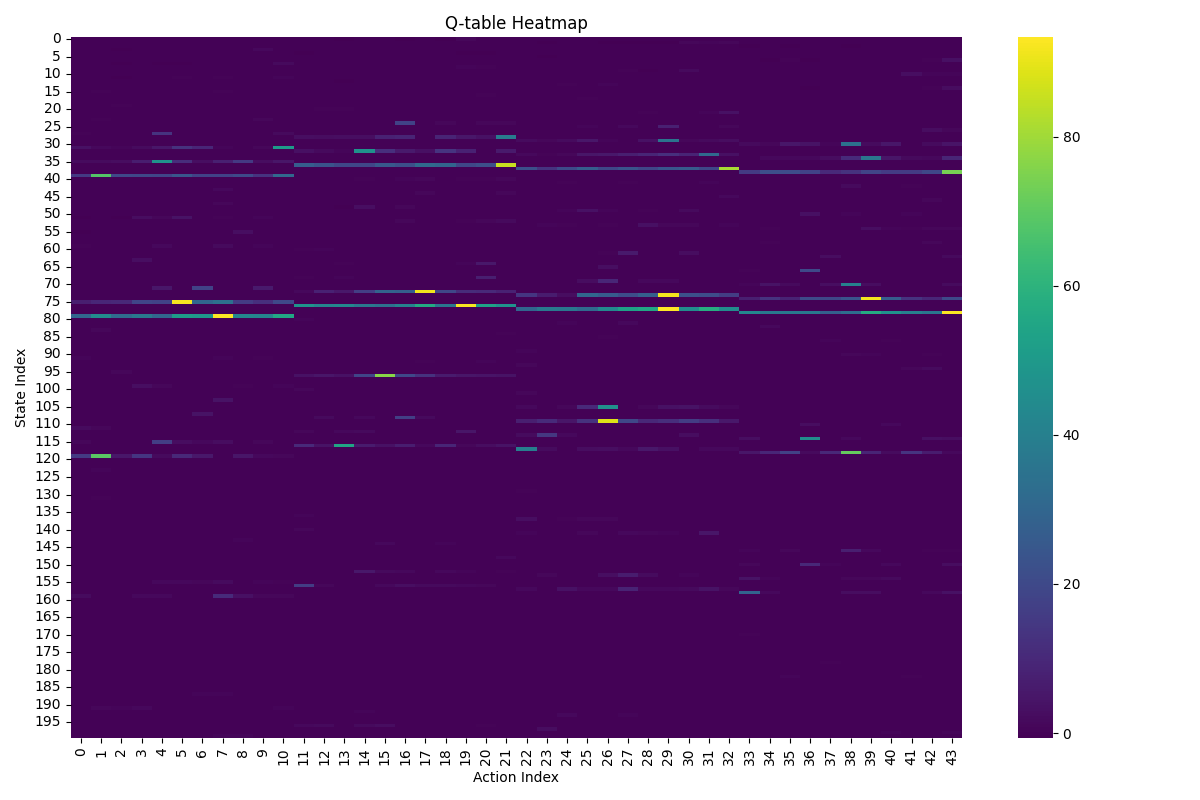
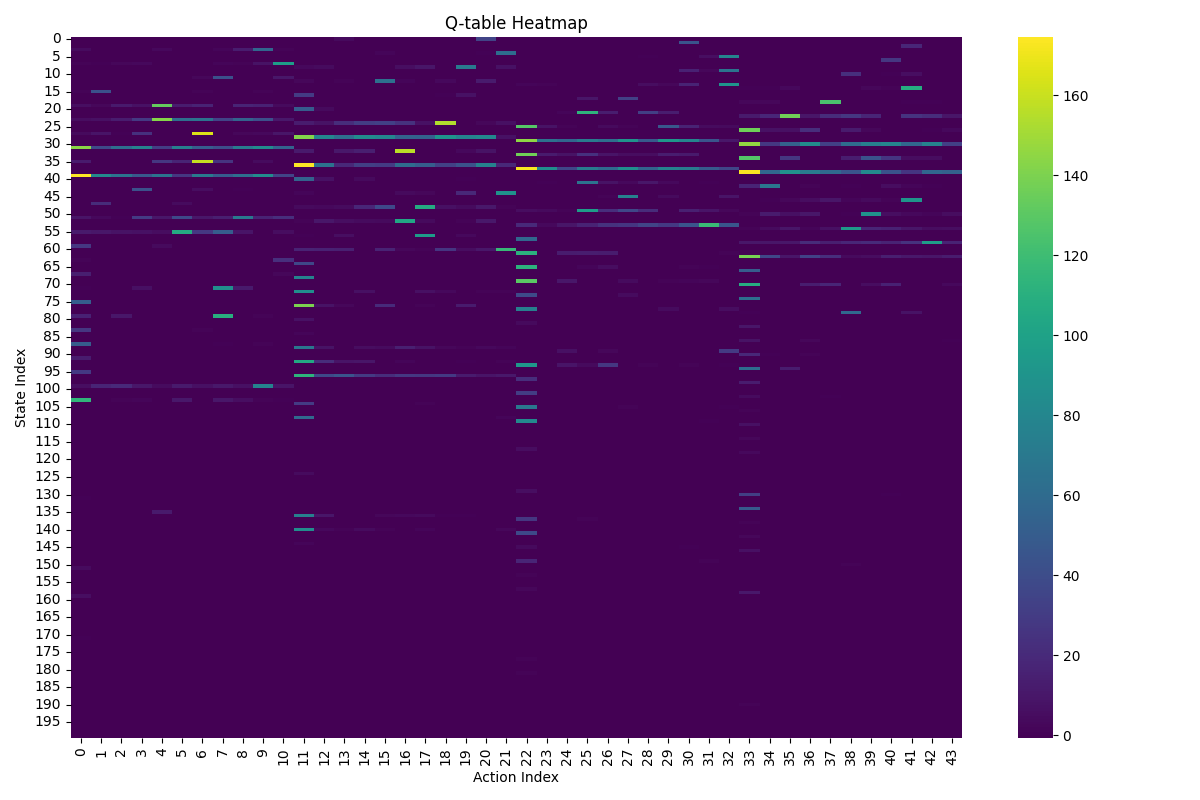
made a remake the main.py

diff --git a/adaptive_learning_system/main.py b/adaptive_learning_system/main.py
@@ -1,57 +1,110 @@
-if __name__ == "__main__":
-    from ql_setup import define_state_space, define_action_space
-    from ql_training import train_q_learning_agent
-    from ql_analysis import get_optimal_action_for_state, get_top_n_actions_for_state, plot_q_table_heatmap
-    from plot_utils import plot_line_chart
+# main.py (pseudocode)
+from data_handling import load_csv, preprocess_data, save_csv
+from random_forest import train_models, predict, save_models
+from kalman_filter import add_kalman_column
+from simpsons_rule import simpsons_rule, discretize_simpsons_result
+from ql_setup import define_state_space, define_action_space, initialize_q_table
+from ql_training import train_q_learning_agent
+from shewhart_control import initialize_control_chart, add_engagement_data, check_for_engagement_anomaly
+from ql_analysis import plot_q_table_heatmap, print_policy_summary, plot_learning_curve
+from plot_utils import plot_line_chart
 
-    # --- Training ---
-    q_table, rewards, max_q_values, policy_evolution = train_q_learning_agent(
-        num_episodes=200,
-        max_steps_per_episode=30,
-        learning_rate=0.1,
-        discount_factor=0.9,
-        epsilon=1.0,
-        epsilon_decay_rate=0.005,
-        min_epsilon=0.05,
-        reward_mode="state",
-        progress_interval=20
-    )
+# 1. Load and preprocess data
+feature_cols = [
+    'engagement_rate', 'time_on_task_s', 'hint_ratio', 'interaction_count',
+    'task_completed', 'quiz_score', 'difficulty', 'error_rate',
+    'task_timed_out', 'time_before_hint_used'
+]
+target_cols = ['cognitive_load', 'engagement_level']
 
-    # --- Analysis and Visualization ---
-    print("\n--- Learned Policy Examples ---")
-    states, state_to_index, index_to_state, num_states = define_state_space()
-    actions, action_to_index, index_to_action, num_actions = define_action_space()
+df = load_csv("data/sample_training_data.csv")
+df = preprocess_data(df, feature_cols, is_training_data=True)
 
-    example_states = [
-        (3, 5, 1, 'D'),  # Mid-cognitive load, High engagement, Task Completed, Previous task D -> Next should be A
-        (1, 1, 0, 'A'),  # Low cognitive load, Low engagement, Task Not Completed, Previous task A -> Next should be B
-        (5, 3, 0, 'B'),  # High cognitive load, Mid engagement, Task Not Completed, Previous task B -> Next should be C
-        (2, 4, 1, 'C'),  # Low-ish cognitive load, High engagement, Task Completed, Previous task C -> Next should be D
-        (3, 3, 0, 'A')   # The starting state used in training, Previous task A -> Next should be B
-    ]
+# 2. Train Random Forest models
+reg, clf, features, metrics = train_models(df, feature_cols, target_cols)
 
-    for state in example_states:
-        print(f"\n--- Policy for State: {state} ---")
-        optimal_action = get_optimal_action_for_state(state, q_table, state_to_index, index_to_action)
-        print(f"Optimal action: {optimal_action}")
-        top_actions = get_top_n_actions_for_state(state, q_table, state_to_index, index_to_action, n=5)
-        print("Top actions:")
-        if top_actions is not None:
-            for action, q_value in top_actions:
-                print(f"  {action}: {q_value:.4f}")
-        else:
-            print("  No actions available for this state.")
+# 3. Predict on new data, smooth with Kalman, integrate with Simpson
+reg_pred, clf_pred = predict((reg, clf), features, df)
+df['predicted_cognitive_load'] = reg_pred
+df['predicted_engagement_level'] = clf_pred
 
-    # Plot learning curve
-    plot_line_chart(
-        x=list(range(1, len(rewards) + 1)),
-        y=[rewards],
-        xlabel='Episode',
-        ylabel='Total Reward',
-        title='Total Reward per Episode',
-        legend_labels=['Total Reward'],
-        show=True
-    )
+# Visualization: Random Forest predictions (scatter plot)
+plot_line_chart(
+    x=df.index,
+    y=[df['predicted_cognitive_load'], df['predicted_engagement_level']],
+    xlabel="Index",
+    ylabel="Predicted Values",
+    title="Random Forest Predictions",
+    legend_labels=["Cognitive Load", "Engagement Level"],
+    save_path="image/rf_predictions.png",
+    show=False
+)
 
-    # Plot Q-table heatmap
-    plot_q_table_heatmap(q_table)
+df = add_kalman_column(df, col='predicted_cognitive_load', new_col='smoothed_cognitive_load')
+
+# Visualization: Kalman Filter smoothing
+plot_line_chart(
+    x=df.index,
+    y=[df['predicted_cognitive_load'], df['smoothed_cognitive_load']],
+    xlabel="Index",
+    ylabel="Cognitive Load",
+    title="Kalman Filter Smoothing",
+    legend_labels=["Predicted", "Smoothed"],
+    save_path="image/kalman_smoothing.png",
+    show=False
+)
+
+h = 3  # Step size (adjust as appropriate for your data)
+integral = simpsons_rule(df['smoothed_cognitive_load'], h)
+bucket = discretize_simpsons_result(integral)
+
+# Visualization: Simpson's Rule integration (bar for bucket)
+plot_line_chart(
+    x=[0],
+    y=[integral],
+    xlabel="Integration",
+    ylabel="Integral Value",
+    title="Simpson's Rule Integral",
+    legend_labels=["Integral"],
+    save_path="image/simpsons_integral.png",
+    show=False
+)
+
+# 4. RL: Setup and train Q-learning
+states, state_to_index, index_to_state, num_states = define_state_space()
+actions, action_to_index, index_to_action, num_actions = define_action_space()
+q_table = initialize_q_table(num_states, num_actions)
+
+num_episodes = 1000
+alpha = 0.1
+gamma = 0.99
+epsilon = 0.1
+
+q_table, rewards, _, _ = train_q_learning_agent(
+    num_episodes=num_episodes,
+    learning_rate=alpha,
+    discount_factor=gamma,
+    epsilon=epsilon
+)
+
+# Visualization: Q-table heatmap
+plot_q_table_heatmap(q_table, filename="image/qtable_heatmap.png", show=False)
+
+# Visualization: Learning curve
+plot_learning_curve(
+    rewards,
+    window=10,
+    filename="image/learning_curve.png",
+    show=False
+)
+
+# 5. Monitoring and feedback
+chart_state = initialize_control_chart()
+engagement_rate = df['predicted_engagement_level'].mean() / df['predicted_engagement_level'].max()
+add_engagement_data(chart_state, engagement_rate)
+if check_for_engagement_anomaly(chart_state):
+    # Update Q-table, adjust difficulty, etc.
+    pass
+
+# 6. Print policy summary
+print_policy_summary(q_table, state_to_index, index_to_action)

diff --git a/adaptive_learning_system/ql_analysis.py b/adaptive_learning_system/ql_analysis.py
@@ -6,6 +6,9 @@ import seaborn as sns
 from plot_utils import plotly_qtable_heatmap
 
 def get_optimal_action_for_state(current_state, q_table, state_to_index, index_to_action):
+    """
+    Returns the optimal action for a given state based on the Q-table.
+    """
     if not is_valid_state(current_state, state_to_index):
         return None
     state_index = state_to_index[current_state]
@@ -13,6 +16,9 @@ def get_optimal_action_for_state(current_state, q_table, state_to_index, index_t
     return index_to_action[optimal_action_index]
 
 def get_top_n_actions_for_state(current_state, q_table, state_to_index, index_to_action, n=5):
+    """
+    Returns the top-n actions and their Q-values for a given state.
+    """
     if not is_valid_state(current_state, state_to_index):
         return None
     state_index = state_to_index[current_state]
@@ -22,6 +28,9 @@ def get_top_n_actions_for_state(current_state, q_table, state_to_index, index_to
     return [(index_to_action[i], q_values[i]) for i in top_n_action_indices]
 
 def print_policy_for_state(current_state, q_table, state_to_index, index_to_action, n=5):
+    """
+    Prints the top-n actions and their Q-values for a given state.
+    """
     top_actions = get_top_n_actions_for_state(current_state, q_table, state_to_index, index_to_action, n)
     if top_actions is None:
         print("Invalid state.")
@@ -31,6 +40,9 @@ def print_policy_for_state(current_state, q_table, state_to_index, index_to_acti
         print(f"  Action: {action}, Q-value: {q_value:.3f}")
 
 def plot_q_table_heatmap(q_table, filename="image/qtable_heatmap.png", show=False):
+    """
+    Plots a heatmap of the Q-table using seaborn and saves it as an image.
+    """
     plt.figure(figsize=(12, 8))
     sns.heatmap(q_table, cmap="viridis")
     plt.title("Q-table Heatmap")
@@ -50,7 +62,7 @@ def plot_q_table_heatmap_plotly(q_table, save_path=None, show=False):
 
 def extract_policy(q_table, state_to_index, index_to_action):
     """
-    Returns a dict mapping state index to optimal action index.
+    Returns a dict mapping state to its optimal action.
     """
     policy = {}
     for state, idx in state_to_index.items():
@@ -120,3 +132,66 @@ def print_policy_summary(q_table, state_to_index, index_to_action, sample_states
         sample_states = list(state_to_index.keys())[:5]
     for state in sample_states:
         print_policy_for_state(state, q_table, state_to_index, index_to_action, n=n)
+
+def print_policy_examples(q_table, state_to_index, index_to_action, example_states, n=5):
+    """
+    Print optimal and top-N actions for a list of example states.
+    """
+    for state in example_states:
+        print(f"\n--- Policy for State: {state} ---")
+        optimal_action = get_optimal_action_for_state(state, q_table, state_to_index, index_to_action)
+        print(f"Optimal action: {optimal_action}")
+        top_actions = get_top_n_actions_for_state(state, q_table, state_to_index, index_to_action, n=n)
+        print("Top actions:")
+        if top_actions is not None:
+            for action, q_value in top_actions:
+                print(f"  {action}: {q_value:.4f}")
+        else:
+            print("  No actions available for this state.")
+
+if __name__ == "__main__":
+    from ql_setup import define_state_space, define_action_space
+    from ql_training import train_q_learning_agent
+    from plot_utils import plot_line_chart
+
+    # --- Training ---
+    q_table, rewards, max_q_values, policy_evolution = train_q_learning_agent(
+        num_episodes=200,
+        max_steps_per_episode=30,
+        learning_rate=0.1,
+        discount_factor=0.9,
+        epsilon=1.0,
+        epsilon_decay_rate=0.005,
+        min_epsilon=0.05,
+        reward_mode="state",
+        progress_interval=20
+    )
+
+    # --- Analysis and Visualization ---
+    print("\n--- Learned Policy Examples ---")
+    states, state_to_index, index_to_state, num_states = define_state_space()
+    actions, action_to_index, index_to_action, num_actions = define_action_space()
+
+    example_states = [
+        (3, 5, 1, 'D'),  # Mid-cognitive load, High engagement, Task Completed, Previous task D -> Next should be A
+        (1, 1, 0, 'A'),  # Low cognitive load, Low engagement, Task Not Completed, Previous task A -> Next should be B
+        (5, 3, 0, 'B'),  # High cognitive load, Mid engagement, Task Not Completed, Previous task B -> Next should be C
+        (2, 4, 1, 'C'),  # Low-ish cognitive load, High engagement, Task Completed, Previous task C -> Next should be D
+        (3, 3, 0, 'A')   # The starting state used in training, Previous task A -> Next should be B
+    ]
+
+    print_policy_examples(q_table, state_to_index, index_to_action, example_states, n=5)
+
+    # Plot learning curve
+    plot_line_chart(
+        x=list(range(1, len(rewards) + 1)),
+        y=[rewards],
+        xlabel='Episode',
+        ylabel='Total Reward',
+        title='Total Reward per Episode',
+        legend_labels=['Total Reward'],
+        show=True
+    )
+
+    # Plot Q-table heatmap
+    plot_q_table_heatmap(q_table)

diff --git a/adaptive_learning_system/random_forest.py b/adaptive_learning_system/random_forest.py
@@ -61,3 +61,49 @@ def save_models(models, out_dir='models', prefix='rf'):
     joblib.dump(reg, reg_path)
     joblib.dump(clf, clf_path)
     print(f"Models saved to {reg_path} and {clf_path}")
+
+if __name__ == "__main__":
+    # Example usage
+
+    from data_handling import load_csv, preprocess_data
+
+    # Path to your training CSV file
+    csv_path = "data/sample_training_data.csv"
+
+    # Define feature and target columns
+    feature_cols = [
+        'engagement_rate', 'time_on_task_s', 'hint_ratio', 'interaction_count',
+        'task_completed', 'quiz_score', 'difficulty', 'error_rate',
+        'task_timed_out', 'time_before_hint_used'
+    ]
+    target_cols = ['cognitive_load', 'engagement_level']
+
+    # Load and preprocess data
+    df = load_csv(csv_path)
+    df = preprocess_data(df, feature_cols, is_training_data=True)
+
+    # Train models
+    reg, clf, features, metrics = train_models(df, feature_cols, target_cols)
+
+    # Example new data for prediction
+    import pandas as pd
+    new_data = pd.DataFrame([{
+        'engagement_rate': 0.8,
+        'time_on_task_s': 450,
+        'hint_ratio': 0.5,
+        'interaction_count': 12,
+        'task_completed': 1,
+        'quiz_score': 92,
+        'difficulty': 3,
+        'error_rate': 0.2,
+        'task_timed_out': 0,
+        'time_before_hint_used': 120
+    }])
+
+    # Predict using trained models
+    reg_pred, clf_pred = predict((reg, clf), features, new_data)
+    print("Predicted Cognitive Load:", reg_pred)
+    print("Predicted Engagement Level:", clf_pred)
+
+    # Save models
+    save_models((reg, clf))

diff --git a/adaptive_learning_system/kalman_filter.py b/adaptive_learning_system/kalman_filter.py
@@ -66,3 +66,34 @@ def add_kalman_column(df, col='cognitive_load', new_col='smoothed_cognitive_load
     df = df.copy()
     df[new_col] = apply_kalman_filter(df[col].values, **kf_kwargs)
     return df
+
+if __name__ == "__main__":
+    from data_handling import load_csv, save_csv
+    from plot_utils import plot_line_chart
+
+    # Load real cognitive load data from CSV using data_handling utility
+    df = load_csv("data/sample_predictions.csv")  # Corrected path
+
+    if df is None:
+        print("Failed to load data. Exiting.")
+    else:
+        # Apply Kalman filter and add smoothed column
+        df_smoothed = add_kalman_column(df, col='cognitive_load', new_col='smoothed_cognitive_load')
+
+        # Print first few rows to show effect
+        print(df_smoothed[['cognitive_load', 'smoothed_cognitive_load']].head())
+
+        # Save DataFrame with smoothed column
+        save_csv(df_smoothed, "data/sample_predictions_with_smoothed.csv")
+
+        # Plot original vs smoothed using plot_utils and save as image
+        plot_line_chart(
+            x=df_smoothed.index,
+            y=[df_smoothed['cognitive_load'], df_smoothed['smoothed_cognitive_load']],
+            xlabel="Index",
+            ylabel="Cognitive Load",
+            title="Kalman Filter Example (Real Data)",
+            legend_labels=["Original", "Smoothed"],
+            save_path="image/kalman_example.png",
+            show=True
+        )

diff --git a/adaptive_learning_system/simpsons_rule.py b/adaptive_learning_system/simpsons_rule.py
@@ -103,3 +103,29 @@ def discretize_simpsons_result(simpsons_integral_value, num_buckets=5, historica
         bucket_index = int(np.clip(bucket_index_category[0], 0, num_buckets - 1))
 
     return bucket_index + 1  # Return 1-based bucket index
+
+if __name__ == "__main__":
+    from data_handling import load_csv
+
+    # Load the CSV with smoothed cognitive load using data_handling utility
+    df = load_csv("data/sample_predictions_with_smoothed.csv")
+
+    if df is None:
+        print("Failed to load data. Exiting.")
+    else:
+        # Use the smoothed cognitive load column
+        smoothed_cognitive_load = df['smoothed_cognitive_load'].values
+        h = 3  # Step size (adjust as appropriate for your data)
+
+        # Apply Simpson's Rule
+        integral = simpsons_rule(smoothed_cognitive_load, h)
+        print(f"Simpson's Rule Integral (smoothed): {integral}")
+
+        # Example: Discretize the integral into 5 buckets
+        historical_integrals = None  # Or load/compute as needed
+        bucket_5 = discretize_simpsons_result(integral, num_buckets=5, historical_integral_values=historical_integrals)
+        print(f"Discretized Bucket (5 buckets): {bucket_5}")
+
+        # Example: Discretize the integral into 7 buckets
+        bucket_7 = discretize_simpsons_result(integral, num_buckets=7, historical_integral_values=historical_integrals)
+        print(f"Discretized Bucket (7 buckets): {bucket_7}")
